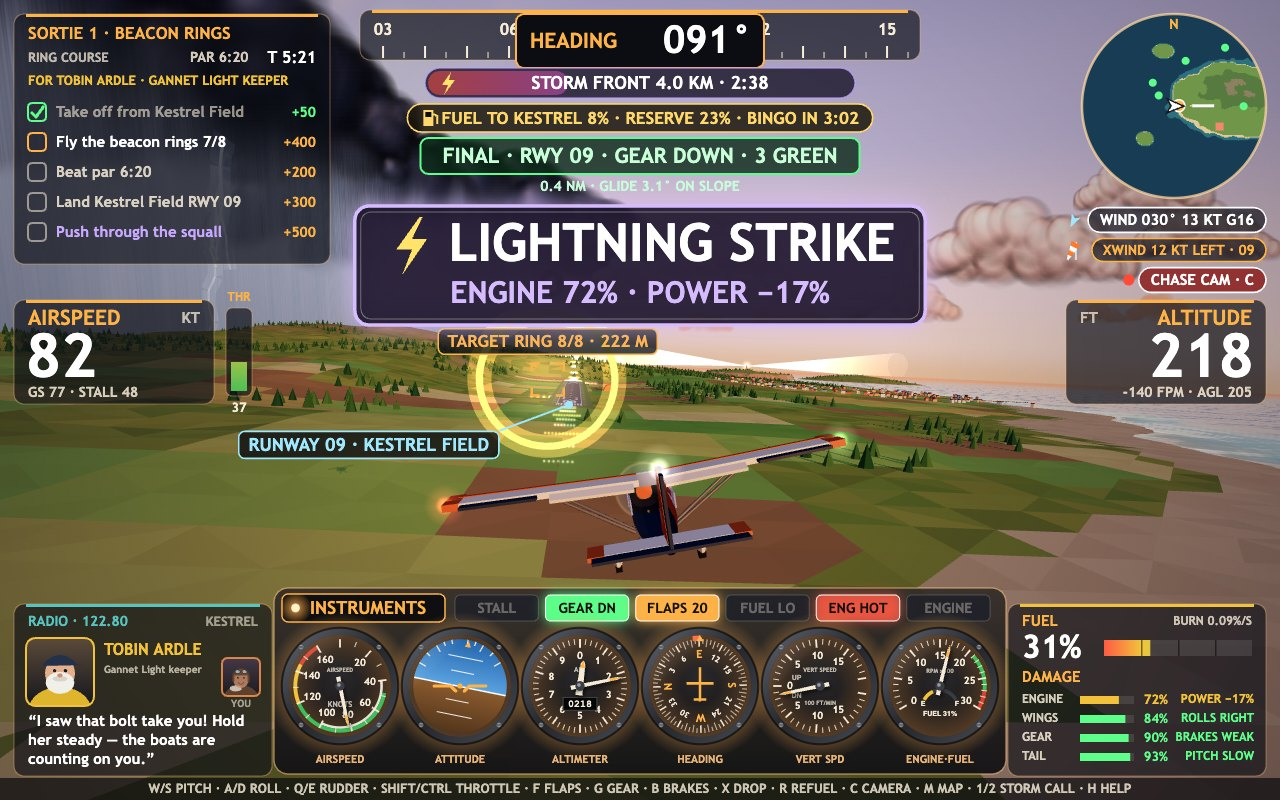
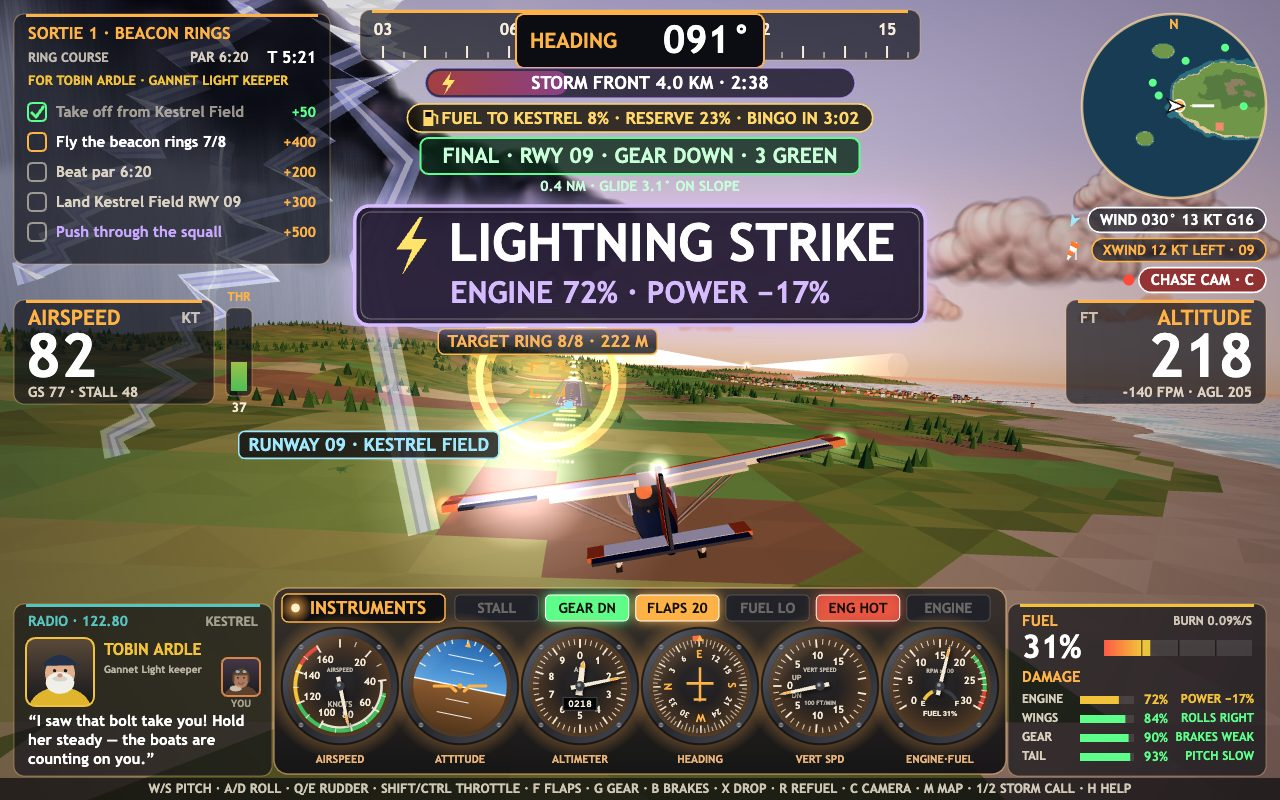
Lightning that strikes the aircraft is drawn: a forked channel onto the wing and a burst of light

diff --git a/game/src/lightning-strike-fx.js b/game/src/lightning-strike-fx.js
@@ -1,0 +1,146 @@
+// The bolt that finds the aircraft: when the squall's lightning strikes, a jagged white channel
+// with two forks cracks down from the cloud base onto the left wing for half a second, wrapped
+// in a violet glow and ending in a burst of light on the airframe. Built as ribbons turned to
+// face the camera every frame, as wide on screen near the wing as under the cloud.
+import * as THREE from 'three';
+import { createRandom } from './random.js';
+import { glowSprite } from './town-and-airstrips.js';
+
+const SEGMENTS = 22;
+const BOLT_SECONDS = 0.5;
+const HIT_SECONDS = 1.1;
+
+function ribbon(scene, colour, opacity, additive) {
+  const geometry = new THREE.BufferGeometry();
+  geometry.setAttribute('position', new THREE.BufferAttribute(new Float32Array((SEGMENTS + 1) * 2 * 3), 3));
+  const index = [];
+  for (let i = 0; i < SEGMENTS; i += 1) {
+    const k = i * 2;
+    index.push(k, k + 1, k + 2, k + 1, k + 3, k + 2);
+  }
+  geometry.setIndex(index);
+  const material = new THREE.MeshBasicMaterial({ color: colour, transparent: true, opacity, depthWrite: false, side: THREE.DoubleSide, fog: false, blending: additive ? THREE.AdditiveBlending : THREE.NormalBlending });
+  const mesh = new THREE.Mesh(geometry, material);
+  mesh.frustumCulled = false;
+  mesh.visible = false;
+  scene.add(mesh);
+  return mesh;
+}
+
+export function createStrikeBolt(scene) {
+  // The main channel and two forks, each a white core inside a violet glow.
+  // A dark rim under each keeps the white channel readable against a bright evening sky.
+  const strands = [0, 1, 2].map(() => {
+    const rim = ribbon(scene, '#2a1850', 0.55, false);
+    const glow = ribbon(scene, '#8f9cff', 0.7, true);
+    const core = ribbon(scene, '#f8f9ff', 1, false);
+    rim.renderOrder = 5;
+    glow.renderOrder = 6;
+    core.renderOrder = 7;
+    return { rim, glow, core, points: [] };
+  });
+  const hit = new THREE.Sprite(new THREE.SpriteMaterial({ map: glowSprite(), color: '#d8ccff', blending: THREE.AdditiveBlending, transparent: true, depthWrite: false, fog: false }));
+  hit.visible = false;
+  scene.add(hit);
+  return { strands, hit, seed: -1 };
+}
+
+/**
+ * A zig-zag from `from` to `to`: each kink thrown across `lateral` (a horizontal unit vector
+ * across the view) and up or down, less so toward the end when `taper`.
+ */
+function zigzag(from, to, random, swing, taper, lateral) {
+  const points = [];
+  let side = 1;
+  for (let i = 0; i <= SEGMENTS; i += 1) {
+    // Kinks crowd toward the end, where the channel is nearest the eye.
+    const t = taper ? (i / SEGMENTS) ** 0.6 : i / SEGMENTS;
+    const p = from.clone().lerp(to, t);
+    if (i > 0 && i < SEGMENTS) {
+      side = -side;
+      const amount = swing * (taper ? (1 - t) ** 0.8 : 1 - t * 0.5) * (0.4 + random());
+      const across = side * amount * (0.6 + random() * 0.8);
+      p.x += lateral.x * across;
+      p.z += lateral.z * across;
+      p.y += (random() - 0.5) * amount * 0.8;
+    }
+    points.push(p);
+  }
+  return points;
+}
+
+/** The channel from the cloud base to the wing, and two forks off it, jagged by a seed. */
+function channels(a, seed) {
+  const fx = Math.sin(a.heading);
+  const fz = -Math.cos(a.heading);
+  const rx = Math.cos(a.heading);
+  const rz = Math.sin(a.heading);
+  // From the cloud base ahead and to the left, so the chase camera sees the whole channel come in.
+  const top = new THREE.Vector3(a.pos.x - rx * 150 + fx * 380, a.pos.y + 230, a.pos.z - rz * 150 + fz * 380);
+  const end = new THREE.Vector3(a.pos.x - rx * 4, a.pos.y + 1.2, a.pos.z - rz * 4);
+  const random = createRandom(seed);
+  const lateral = { x: rx, z: rz };
+  const main = zigzag(top, end, random, 18, true, lateral);
+  const forks = [5, 10].map((k) => {
+    const from = main[k];
+    const to = from.clone().add(new THREE.Vector3(-(70 + random() * 50) * rx + fx * 40, -(90 + random() * 60), -(70 + random() * 50) * rz + fz * 40));
+    return zigzag(from, to, random, 9, false, lateral);
+  });
+  return [main, ...forks];
+}
+
+/** Lay a ribbon along the points, `pixels` wide on screen whatever the distance. */
+function fill(mesh, points, eye, pixels) {
+  const positions = mesh.geometry.getAttribute('position');
+  const toEye = new THREE.Vector3();
+  const along = new THREE.Vector3();
+  const side = new THREE.Vector3();
+  points.forEach((p, i) => {
+    const next = points[Math.min(points.length - 1, i + 1)];
+    const prev = points[Math.max(0, i - 1)];
+    along.subVectors(next, prev).normalize();
+    toEye.subVectors(eye, p);
+    const distance = toEye.length();
+    toEye.normalize();
+    side.crossVectors(along, toEye).normalize().multiplyScalar(distance * pixels * 0.0009);
+    positions.setXYZ(i * 2, p.x - side.x, p.y - side.y, p.z - side.z);
+    positions.setXYZ(i * 2 + 1, p.x + side.x, p.y + side.y, p.z + side.z);
+  });
+  positions.needsUpdate = true;
+}
+
+/** Show the bolt for half a second after `session.struckAt`, and the burst on the wing a little longer. */
+export function updateStrikeBolt(bolt, session, camera) {
+  const age = session.struckAt === undefined ? Infinity : session.time - session.struckAt;
+  const showBolt = age >= 0 && age < BOLT_SECONDS && !session.aircraft.crashed;
+  for (const strand of bolt.strands) {
+    strand.core.visible = showBolt;
+    strand.glow.visible = showBolt;
+    strand.rim.visible = showBolt;
+  }
+  bolt.hit.visible = age >= 0 && age < HIT_SECONDS;
+  if (!bolt.hit.visible) return;
+  const a = session.aircraft;
+  const seed = Math.floor(session.struckAt * 1000) + session.seed;
+  if (bolt.seed !== seed) {
+    bolt.seed = seed;
+    channels(a, seed).forEach((points, i) => {
+      bolt.strands[i].points = points;
+    });
+  }
+  // The channel stays where it struck; the burst rides the wing.
+  const fade = 1 - Math.max(0, age) / HIT_SECONDS;
+  bolt.hit.position.set(a.pos.x - Math.cos(a.heading) * 4, a.pos.y + 1.2, a.pos.z - Math.sin(a.heading) * 4);
+  bolt.hit.scale.setScalar(7 * (0.6 + fade));
+  bolt.hit.material.opacity = fade;
+  if (!showBolt) return;
+  const flicker = age < 0.12 || (age > 0.2 && age < 0.3) ? 1 : 0.55;
+  bolt.strands.forEach((strand, i) => {
+    strand.core.material.opacity = flicker * (i ? 0.85 : 1);
+    strand.glow.material.opacity = 0.7 * flicker;
+    strand.rim.material.opacity = 0.55 * flicker;
+    fill(strand.rim, strand.points, camera.position, i ? 7 : 11);
+    fill(strand.glow, strand.points, camera.position, i ? 14 : 24);
+    fill(strand.core, strand.points, camera.position, i ? 3 : 5.5);
+  });
+}

diff --git a/game/src/world-scene.js b/game/src/world-scene.js
@@ -13,6 +13,7 @@ import { createAircraftModel, poseAircraftModel } from './aircraft-model.js';
 import { VIEW_CHASE, VIEW_COCKPIT, createCameraRig, updateCamera } from './chase-camera.js';
 import { createRingMarkers, updateRingMarkers } from './ring-markers.js';
 import { createEffects, updateEffects, updateReplayPath, updateRescueProps } from './effects.js';
+import { createStrikeBolt, updateStrikeBolt } from './lightning-strike-fx.js';
 import { stormGrip } from './storm-front.js';
 import { terrainHeight } from './terrain-height.js';
 
@@ -50,6 +51,7 @@ export function createWorldScene(canvas) {
   const model = createAircraftModel();
   scene.add(model.root);
   const fx = createEffects(scene);
+  const strikeBolt = createStrikeBolt(scene);
   let rings = null;
   let ringSession = null;
 
@@ -78,6 +80,7 @@ export function createWorldScene(canvas) {
     model.gear.visible = model.gear.visible && view !== VIEW_COCKPIT;
     model.root.updateMatrixWorld(true);
     updateCamera(rig, a, dt, snap);
+    updateStrikeBolt(strikeBolt, session, camera);
     updateEffects(fx, a, model, dt, time);
     updateRescueProps(fx, session, time);
     updateReplayPath(fx, time);

diff --git a/game/src/divert-decision.js b/game/src/divert-decision.js
@@ -108,6 +108,7 @@ export function stepCrisis(session, say) {
   const a = session.aircraft;
   if (session.squall && !crisis.struck && crisis.strikeAt !== null && session.time >= crisis.strikeAt && !a.onGround && !a.crashed) {
     crisis.struck = true;
+    session.struckAt = session.time;
     lightningStrike(a);
     boltAt(session.storm, a.pos.x, 0.6);
   }
